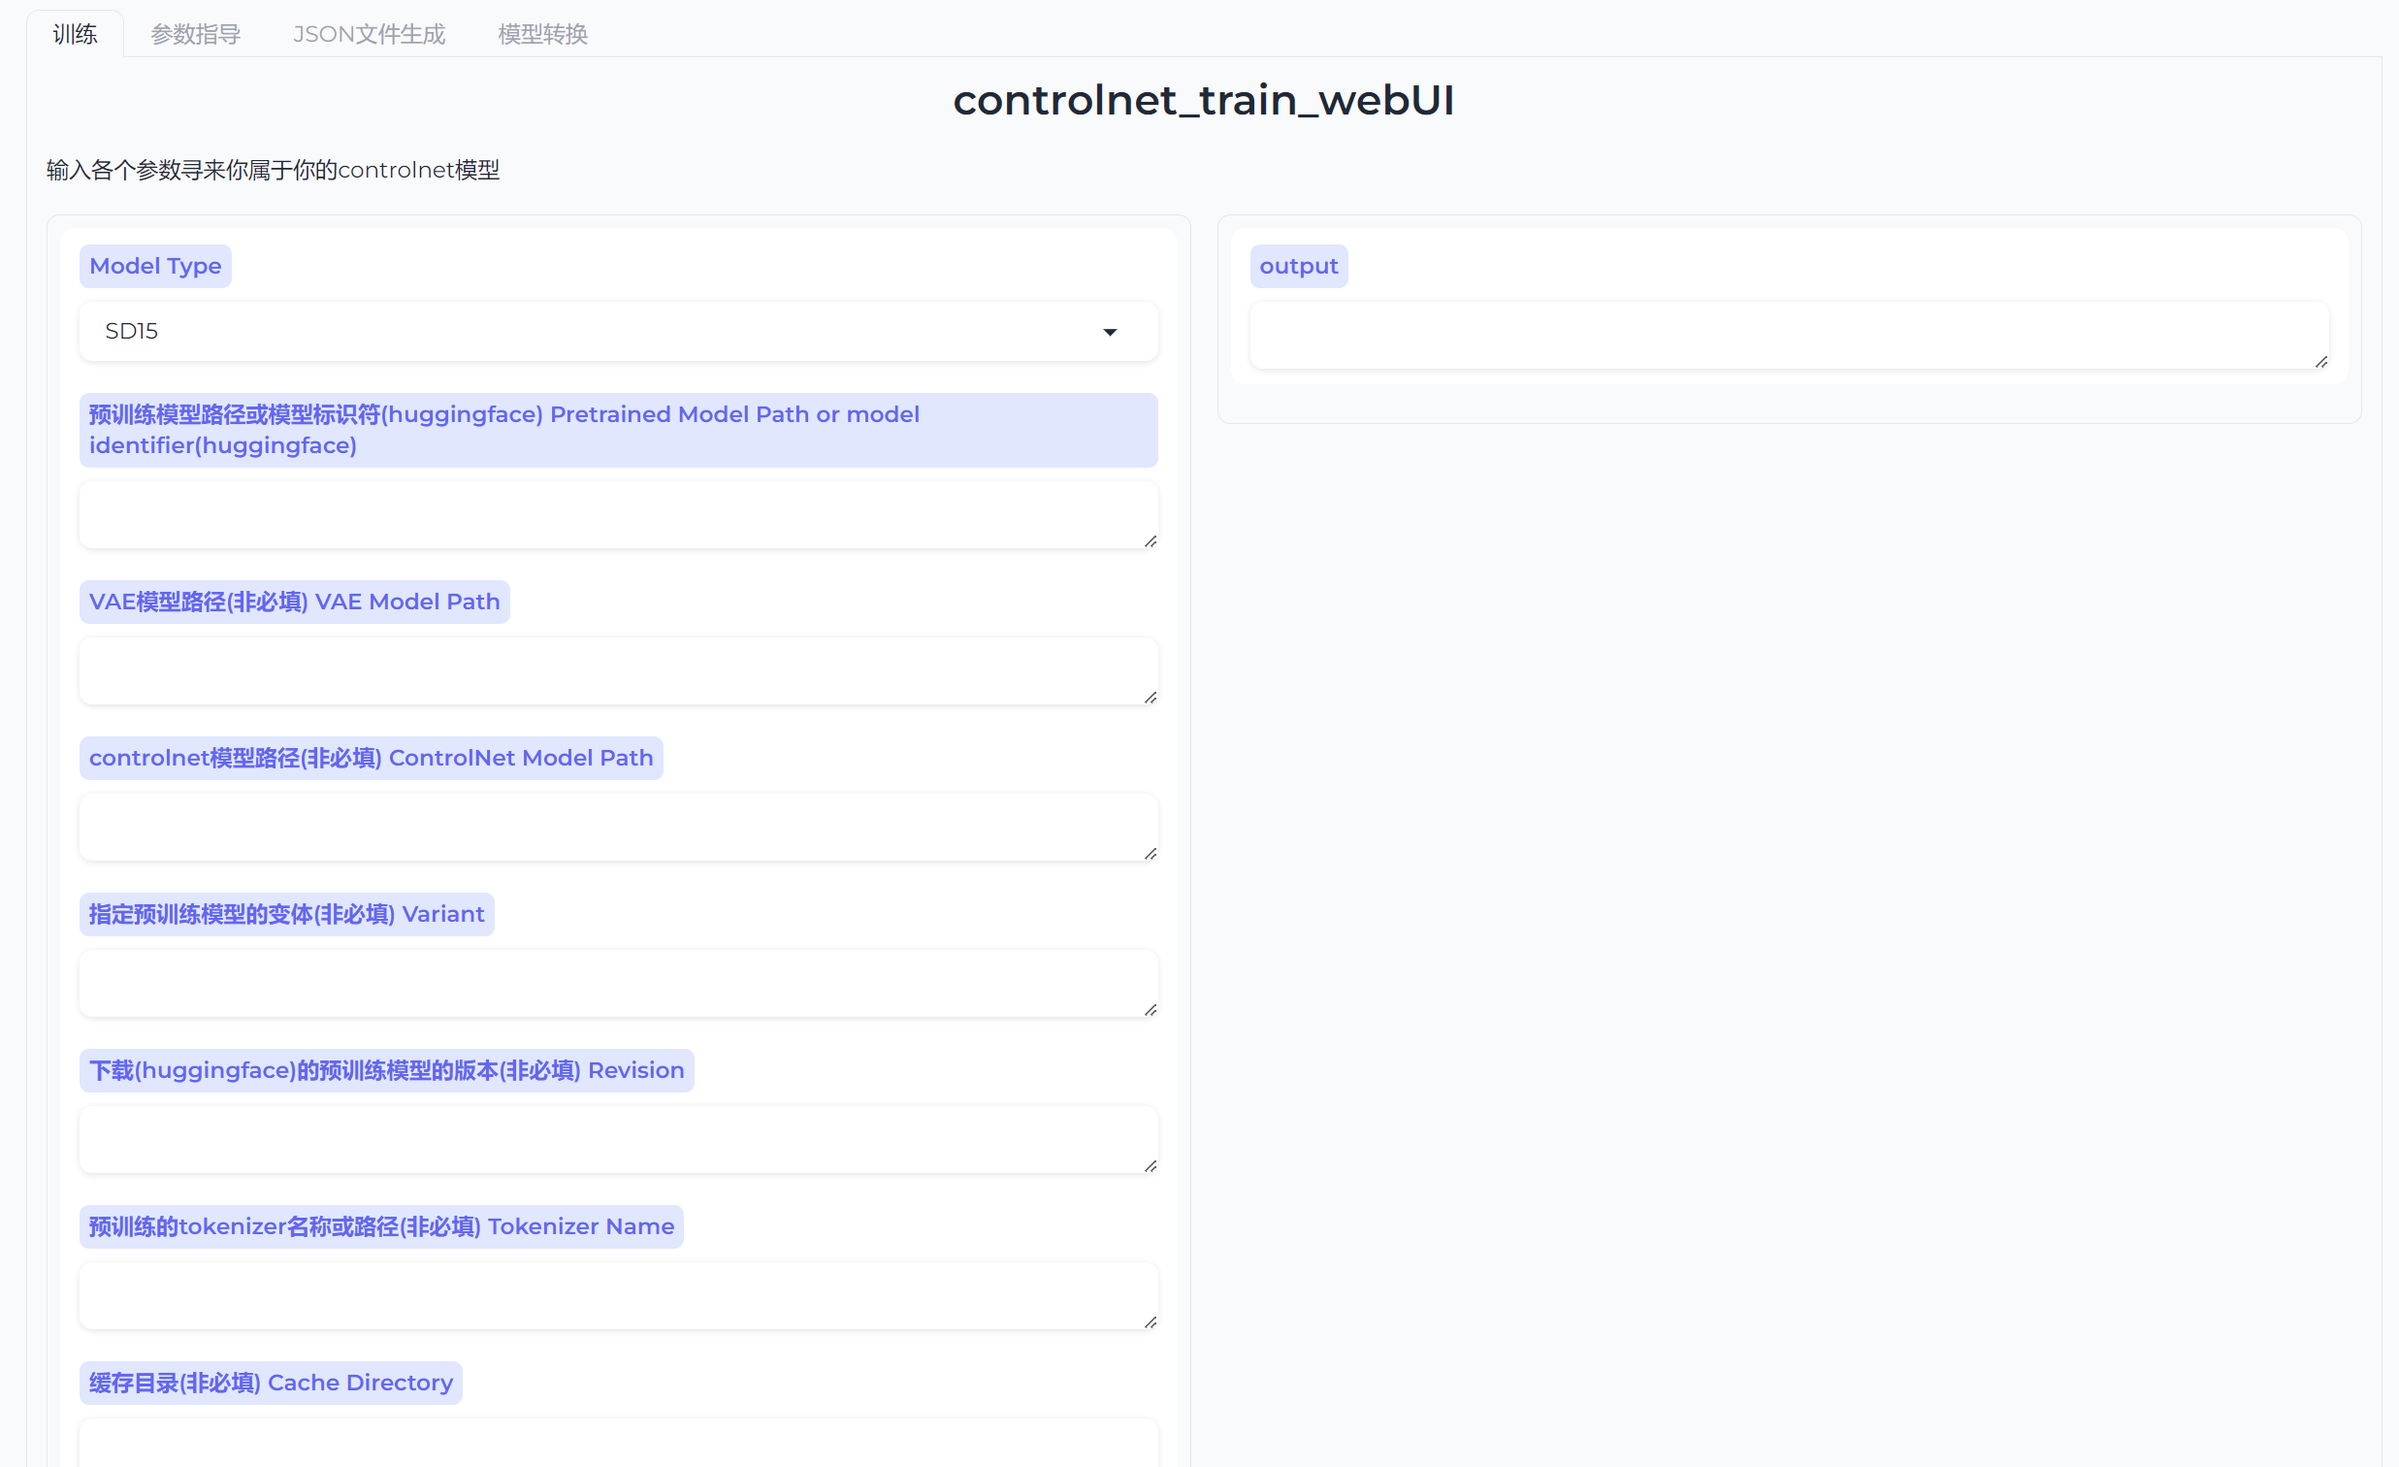
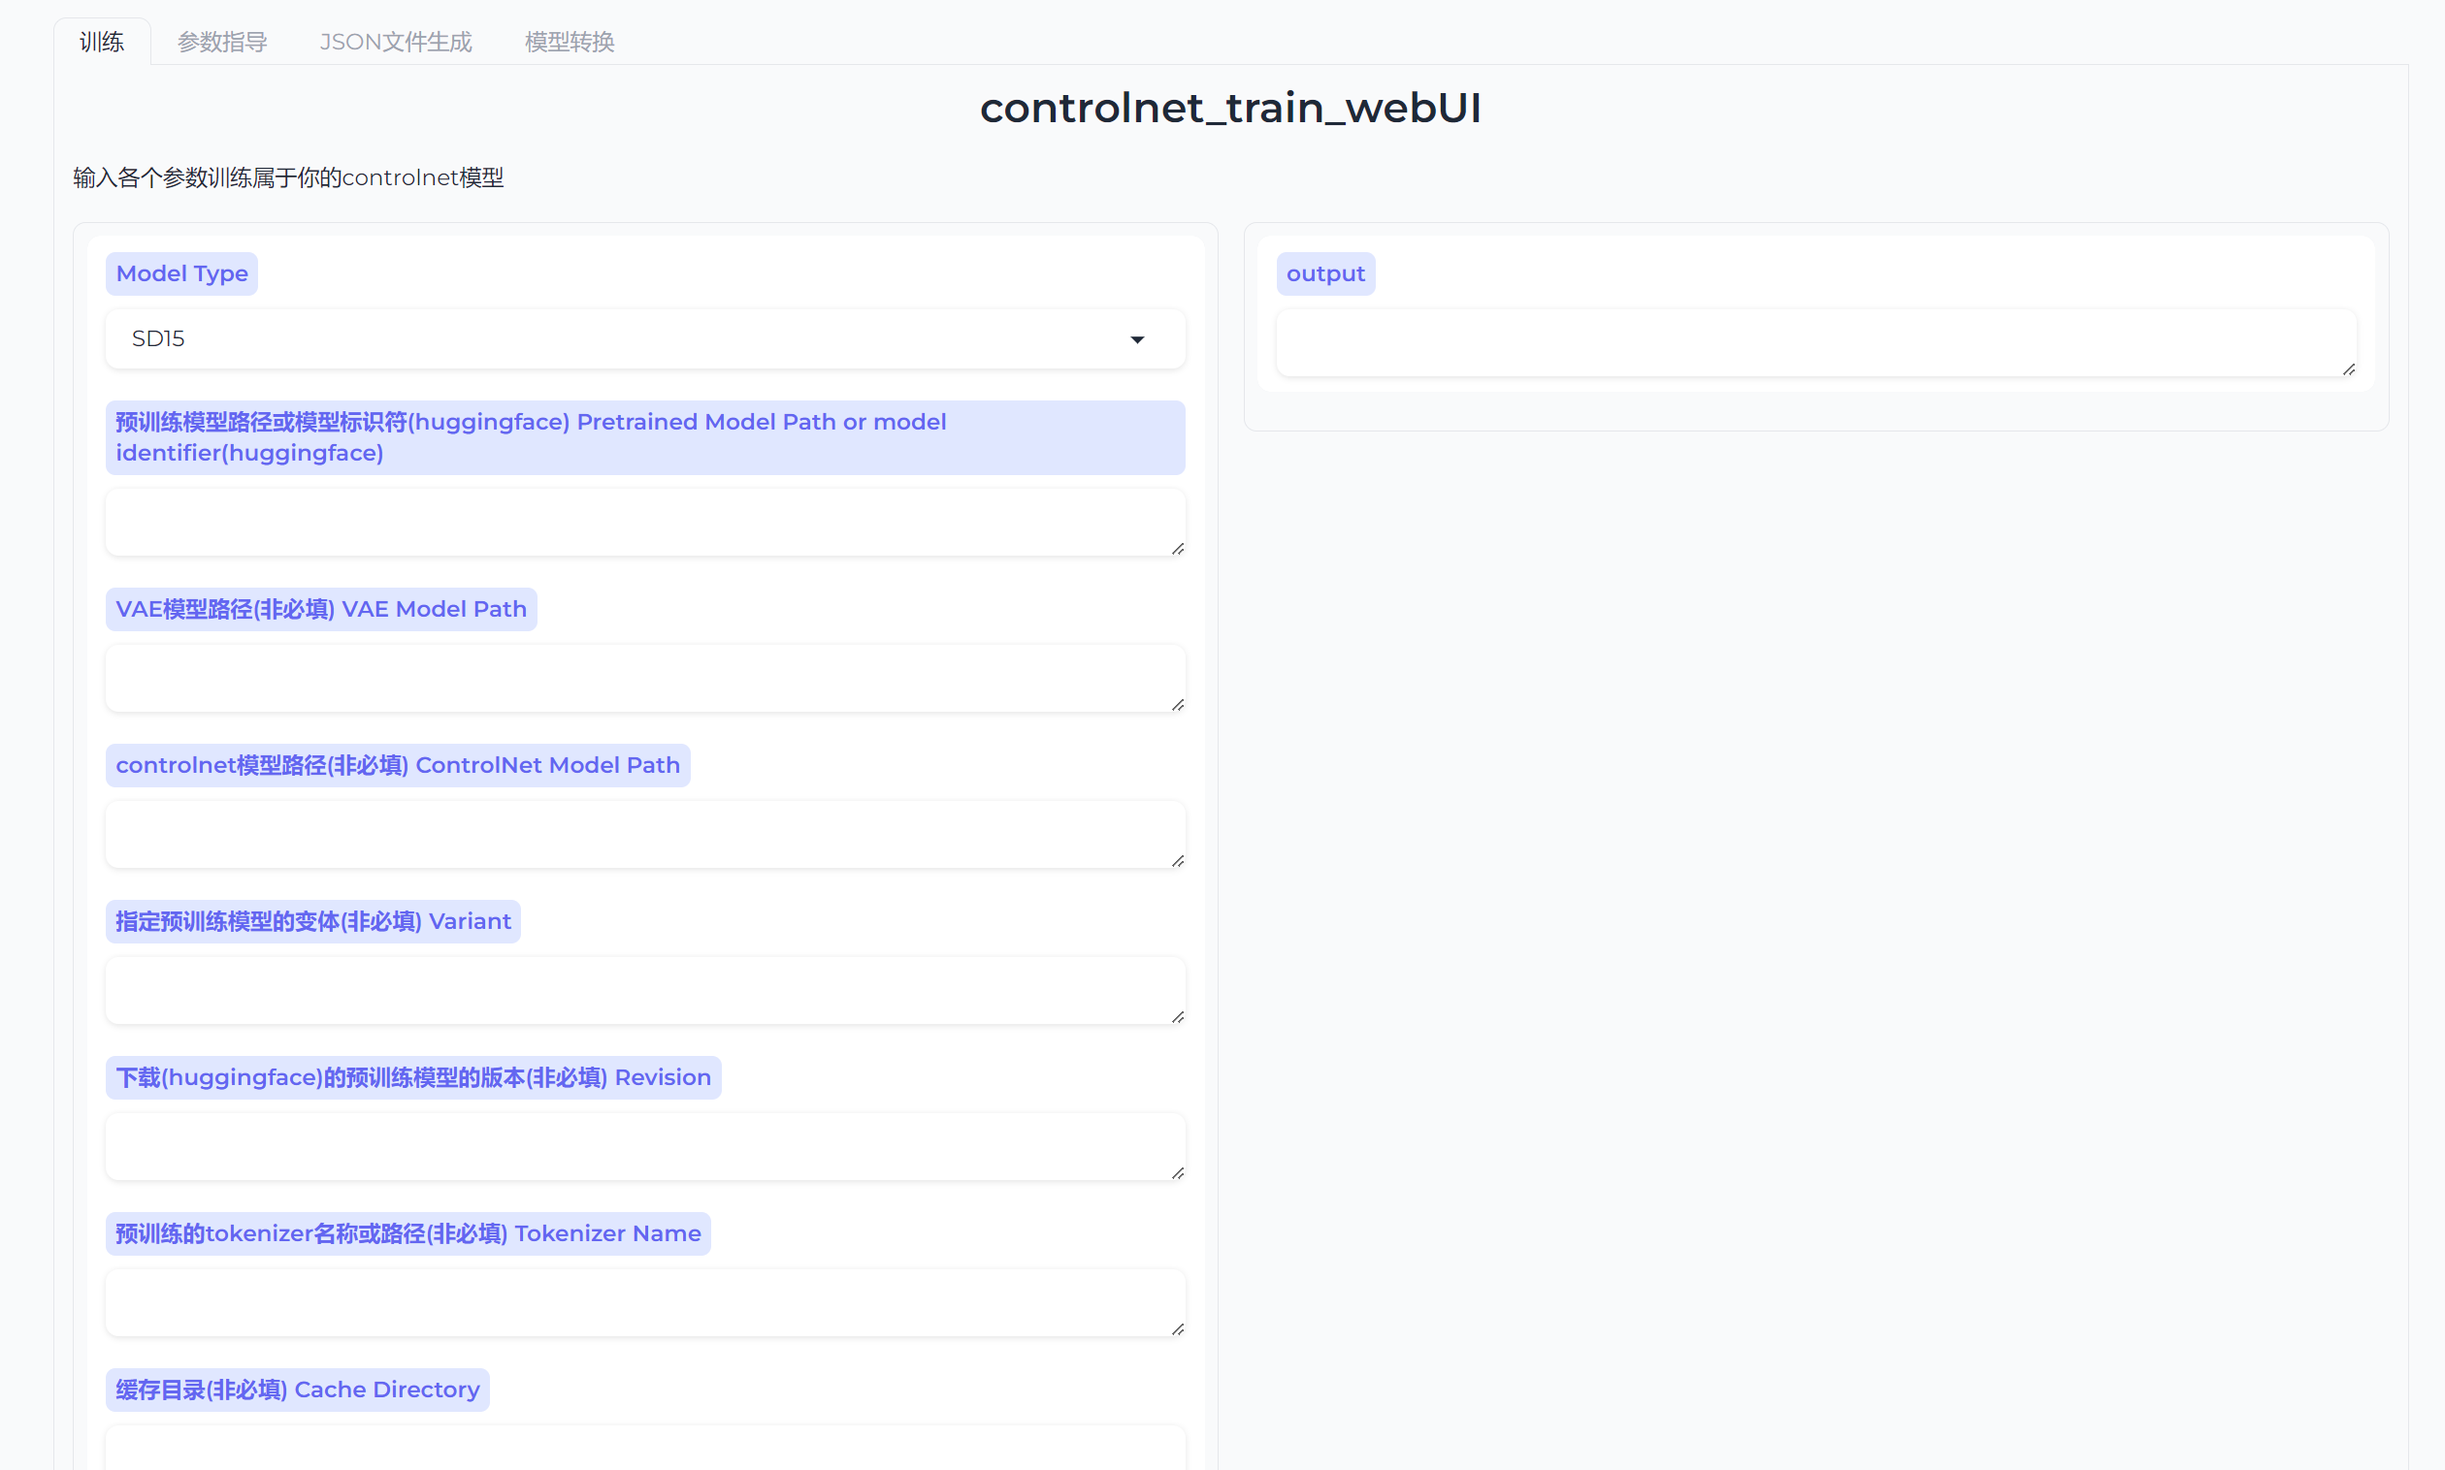
更改部分错误

diff --git a/gradio_train_cn.py b/gradio_train_cn.py
@@ -163,7 +163,7 @@ model_train = gr.Interface(
     clear_btn="清空参数",
     theme=custom_theme,
     allow_flagging='never',  # 禁用 Flag 按钮
-    description="输入各个参数寻来你属于你的controlnet模型"
+    description="输入各个参数训练属于你的controlnet模型"
 )
 
 def process_input(conditioning_image_folder, image_folder, text_folder, output_path):
